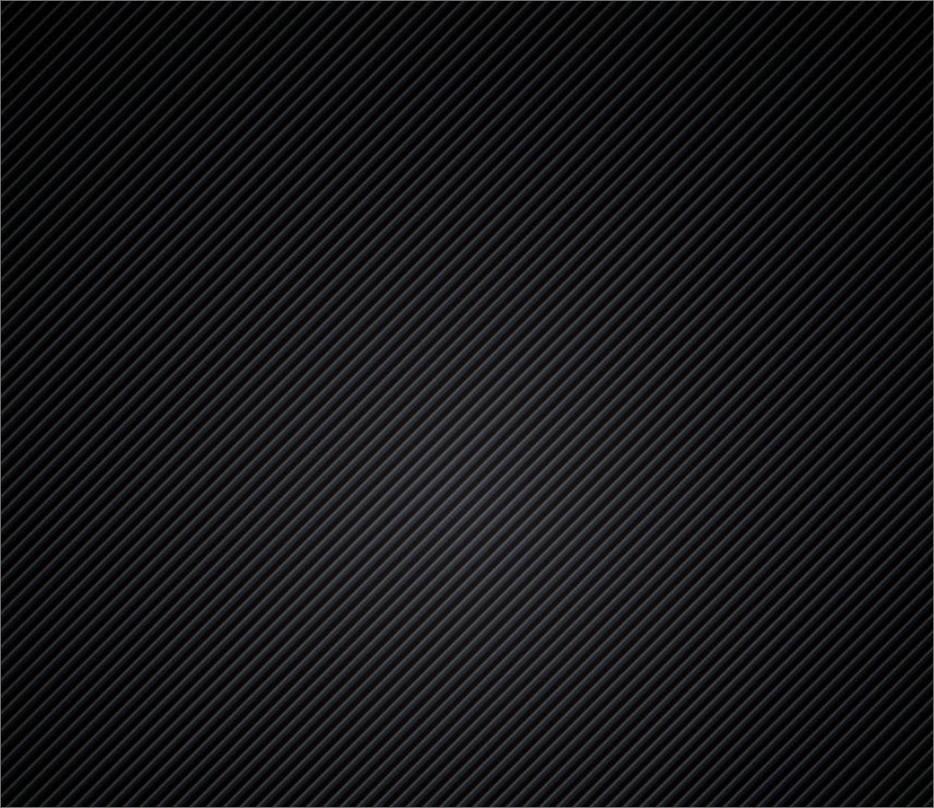
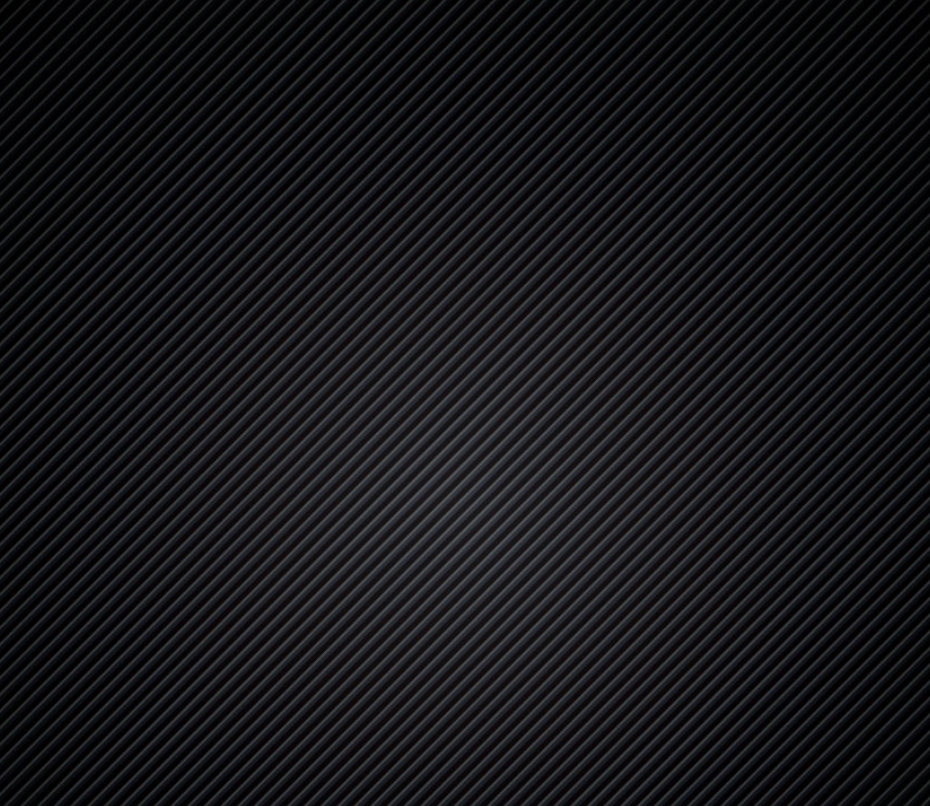
Updating background images

Changed region(s): [[0.0, 0.0, 1.0, 1.0], [0.0, 0.0, 0.3118, 0.7134]]

diff --git a/styles/main.css b/styles/main.css
@@ -423,8 +423,8 @@ header nav .navigation .with-subnav .subnav{
 }
 
 .faq_dropdown_container .faq_dropdown_content .faq_dropdown_q{
-    background: url('../assets/images/products_bg.jpg');
-    background-size: cover;
+    background: url('../assets/images/about_dark_bg.jpg');
+    background-size: auto;
     background-position: center;
     padding: 10px 20px;
     cursor: pointer;
@@ -508,7 +508,7 @@ footer .legals p{
 
 .about-page .with-bg{
     background: url('../assets/images/about_dark_bg.jpg');
-    background-size: cover;
+    background-size: contain;
     background-position: center;
     padding: 20px;
 }
@@ -649,7 +649,7 @@ footer .legals p{
 
 .product-page .two-col .content{
     background: url('../assets/images/about_dark_bg.jpg');
-    background-size: cover;
+    background-size: contain;
     background-position: center;
     padding: 20px;
 }
@@ -662,9 +662,9 @@ footer .legals p{
 .product-page .product-logo{
     border-top: 8px solid var(--lightBlue);
     padding: 20px;
-    background: url('../assets/images/products_bg.jpg');
-    background-size: cover;
-    background-repeat: no-repeat;
+    background: url('../assets/images/about_dark_bg.jpg');
+    background-size: auto;
+    background-repeat: repeat;
 }
 
 .product-page.kittyrade .product-logo{
@@ -755,7 +755,7 @@ footer .legals p{
 .product-page .other-products{
     padding: 20px;
     background: url('../assets/images/about_dark_bg.jpg');
-    background-size: cover;
+    background-size: contain;
 }
 
 .product-page .other-products h2{
@@ -812,7 +812,7 @@ footer .legals p{
 
 .contact .contact-cols .contact-col.with-bg{
     background: url('../assets/images/about_dark_bg.jpg');
-    background-size: cover;
+    background-size: contain;
     padding: 140px 20px 20px;
 }
 
@@ -1166,7 +1166,7 @@ footer .legals p{
     header nav .navigation .with-subnav .subnav{
         position: absolute;
         background: url('../assets/images/about_dark_bg.jpg');
-        background-size: cover;
+        background-size: contain;
         padding: 10px;
         display: none;
         width: 350px;
